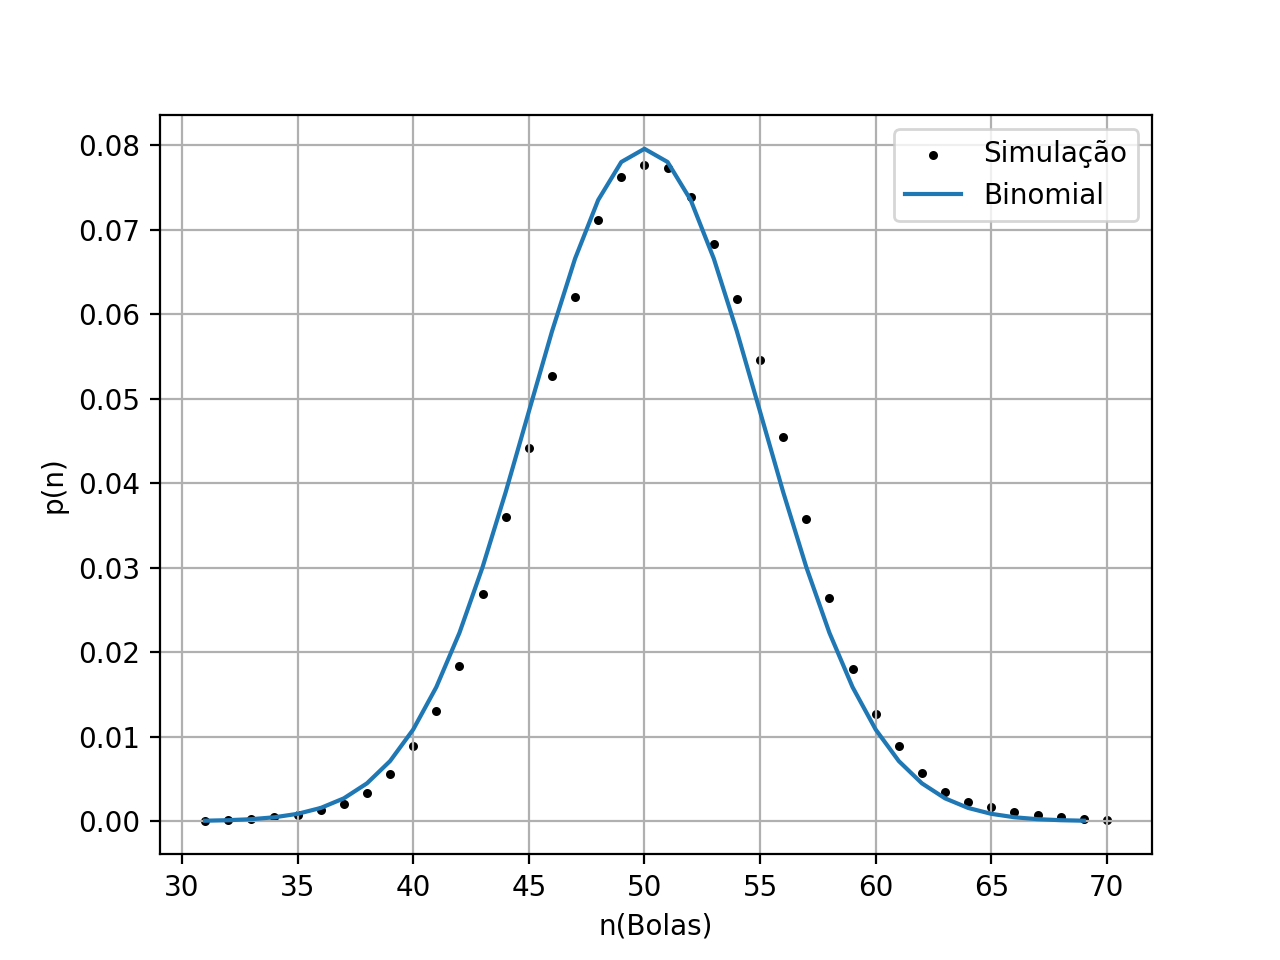
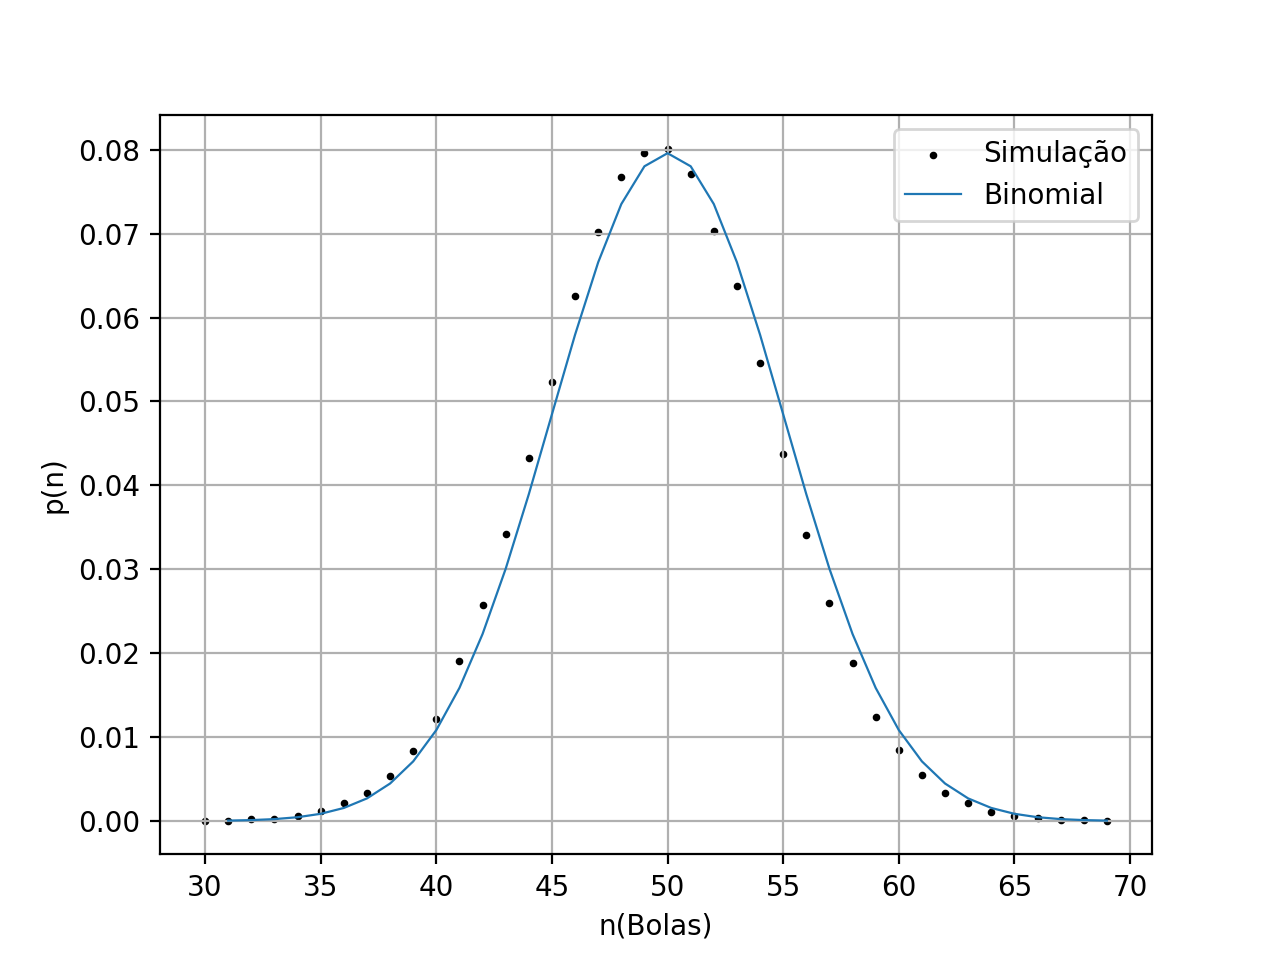
Atualização

diff --git a/Atividades-aula/ex-3/mc_3.c b/Atividades-aula/ex-3/mc_3.c
@@ -3,14 +3,10 @@
 #include <time.h>
 #include <math.h>
 
-#define N 100
+#define N 100		// Número total de bolas
 #define TF 10000000	// Tempo final
 #define EE 10000	// Estado Estacionário
-
-/*
-Aqui eu olhei e assumi que 10000 seria um numero adequado para atingir o equilíbrio, talvez mais que o necessário, 
-e coletei os dados dos próximos 90000 passos, também talvez mais que o necessário.
-*/
+#define TC 101		// Tempo de correlação
 
 int main(){
 	double uniform(double min, double max);
@@ -30,27 +26,36 @@ int main(){
     
     // Variaveis para a probabilidade
     float probs[N] = {0.};
-    float cont = 0.; // comaça com int	
-
-	for(t; t < TF; t++){
+    int cont = 0;
+	
+	// Dinâmica até sair do transiente
+	for(t; t < EE; t++){
 		rand = (int) uniform(0, N-1);
-		
-		if(rand < urnaA){
-            urnaA--;
-        }else{
-            urnaA++;
-        }
-        // loop separado
-        if(t > EE){
-            probs[urnaA] += 1.;
-            cont += 1.;
-        }
+		if(rand < urnaA) urnaA--;
+        else urnaA++;
 	}
 
+	// Coletando do Estado estacionário
+	for(t; t < TF; t++){
+		// Faz a dinâmica
+		rand = (int) uniform(0, N-1);
+		if(rand < urnaA) urnaA--;
+        else urnaA++;
+	    
+	    // Coleta os dados
+	    if(t%TC == 0){
+	        probs[urnaA] += 1.;
+	    	cont++;
+	    }
+	}
+
+	// Escreve o arquivo de saída
     for(int i = 0; i < N; i++){
-   	    probs[i] /= cont;
+   	    probs[i] /= (float) cont;
     	fprintf(saida, "%i\t%lf\n", i, probs[i]);
     }
+	
+	printf("python3 analise3.py %s\n", titulo1);
 	
 	fclose(saida);
 	return 0;

diff --git a/Atividades-aula/ex-3/analise3.py b/Atividades-aula/ex-3/analise3.py
@@ -1,12 +1,15 @@
 import numpy as np
 import matplotlib.pyplot as plt
+import sys
 
-simx, simy = np.loadtxt('1685476701-N100.txt', unpack=True)
+path = sys.argv[1]
+
+simx, simy = np.loadtxt(path, unpack=True)
 exatox, exatoy = np.loadtxt('bin100.dat', unpack=True)
 
 zoom = 30
-plt.scatter(simx[zoom:-zoom], simy[zoom:-zoom], s=5, c='k', label='Simulação')
-plt.plot(exatox[zoom:-zoom], exatoy[zoom:-zoom], label='Binomial')
+plt.scatter(simx[zoom:-zoom], simy[zoom:-zoom], s=3, c='k', label='Simulação')
+plt.plot(exatox[zoom:-zoom], exatoy[zoom:-zoom], linewidth=.8, label='Binomial')
 plt.legend()
 plt.xlabel('n(Bolas)')
 plt.ylabel('p(n)')
